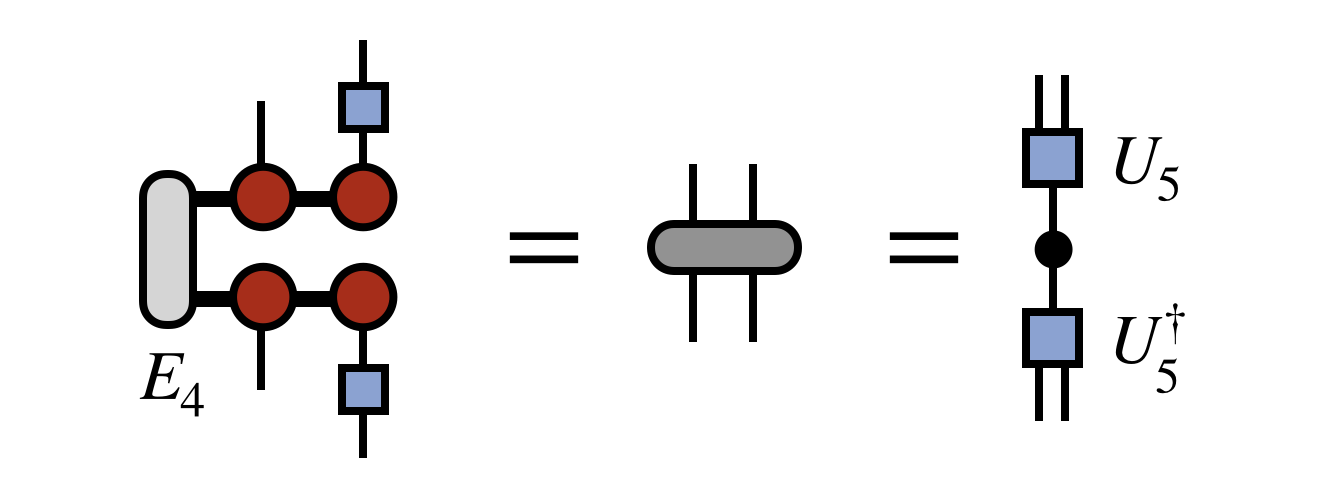
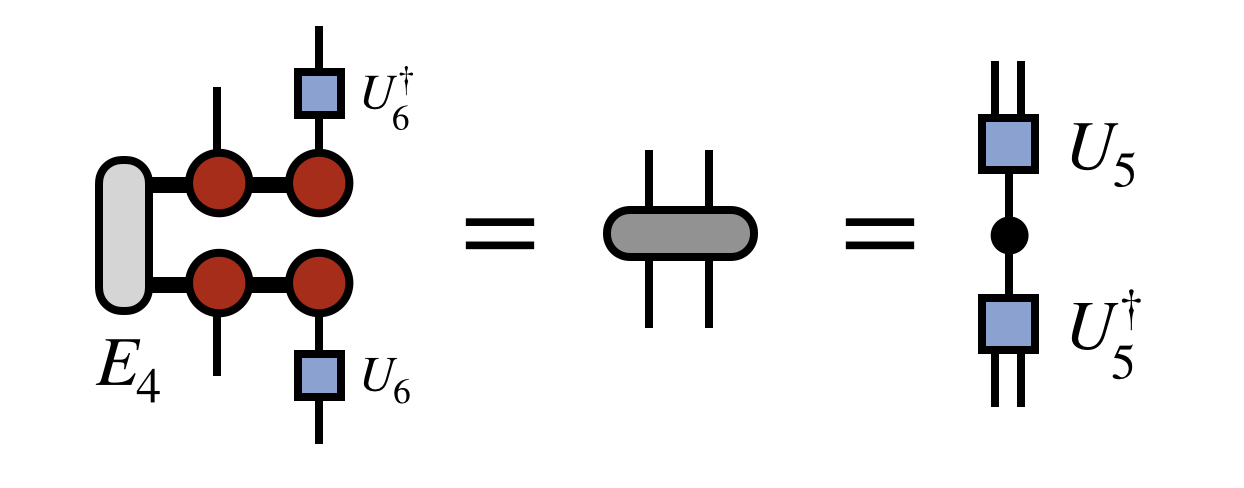
Almost done with MPS/TT compression writeup

diff --git a/src/mps/index.md b/src/mps/index.md
@@ -244,4 +244,24 @@ To begin forming the new, compressed MPS/TT, one diagonalizes $\rho_6$ as shown 
 
 Crucially, at this step one only keeps the $m$ largest eigenvalues of $\rho_6$, discarding the rest and truncating the corresponding columns of $U_6$. The reason for this trunction is that the unitary $U_6$ is actually the first piece of the new, compressed MPS/TT we are constructing, which we wanted to have bond dimension $m$. In passing, we note that other truncation strategies are possible, such as truncating based on a threshold for small versus large eigenvalues, or even stochastically truncating by sampling over the eigenvalues.\cite{Ferris:2015}.
 
+To obtain the next tensor of the new, compressed MPS/TT, one next forms the following "density matrix" and diagonalizes it (with truncation) as shown below
+
 ![medium](diag_rho56.png)
+
+In defining this matrix, $U_6$ was used to transform the basis of the last site. As each $U$ is obtained, it is used in a similar way to compress the space, otherwise the cost of the algorithm would become unmanageable and each next $U$ tensor would not be defined in a basis compatible with the previous $U$'s.
+
+Having obtained $U_5$ as shown above, one next computes the following density matrix, again using all previous $U$ tensors to rotate and compress the space spanned by all previous 
+external indices as shown:
+
+![medium](diag_rho456.png)
+
+The pattern is repeated going further leftward down the chain to obtain $U_4$:
+
+![medium](diag_rho3456.png)
+
+(In passing, note that a matter of efficiency, the contraction of the $U$ and $U^\dagger$ tensors with the uncompressed MPS/TT tensors does not have to be recalculated at each step, but partial contractions can be saved to form the next one efficiently. This sub-step of the algorithm is in fact identical to the inner product algorithm described above, except that it proceeds from right to left.)
+
+Once all of the $U$ tensors are obtained by repeating the steps above. The final tensor of the MPS/TT, which carries the first external index, can be obtained from the following contraction:
+
+
+![medium](first_tensor.png)
